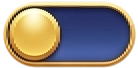
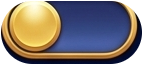
feat(ui): update UI manager and 3D toggle settings assets

diff --git a/Assets/Scripts/UI/UIManager.cs b/Assets/Scripts/UI/UIManager.cs
@@ -254,6 +254,10 @@ namespace BoxBlast
             if (m_LevelHUD != null) m_LevelHUD.SetActive(false);
             if (m_VictoryModal != null) m_VictoryModal.SetActive(false);
             if (m_DefeatModal != null) m_DefeatModal.SetActive(false);
+            if (m_HomeTourModalObj != null) m_HomeTourModalObj.SetActive(false);
+
+            PlayerPrefs.SetInt("BoxBlast_HomeTour_Seen", 1);
+            PlayerPrefs.Save();
 
             // Open Home Page immediately on game start per user request
             OpenModeSelect();
@@ -1121,15 +1125,14 @@ namespace BoxBlast
                 }));
             });
             settingsCloseObj.transform.SetAsLastSibling();
+            // 3. Sound Toggle (X: 154, Y: 178, Size: 142 x 64)
+            CreateConcept2Toggle(sceneObj.transform, new Vector2(154f, 178f), new Vector2(142f, 64f), OnToggleSfxClicked, out m_SfxToggleTrackImg);
 
-            // 3. Sound Toggle (X: 152.5, Y: 183)
-            CreateConcept2Toggle(sceneObj.transform, new Vector2(152.5f, 183f), new Vector2(138f, 68f), OnToggleSfxClicked, out m_SfxToggleTrackImg);
+            // 4. Music Toggle (X: 154, Y: 36, Size: 142 x 64)
+            CreateConcept2Toggle(sceneObj.transform, new Vector2(154f, 36f), new Vector2(142f, 64f), OnToggleMusicClicked, out m_MusicToggleTrackImg);
 
-            // 4. Music Toggle (X: 152.5, Y: 39.5)
-            CreateConcept2Toggle(sceneObj.transform, new Vector2(152.5f, 39.5f), new Vector2(138f, 68f), OnToggleMusicClicked, out m_MusicToggleTrackImg);
-
-            // 5. Vibration Toggle (X: 152.5, Y: -107.5)
-            CreateConcept2Toggle(sceneObj.transform, new Vector2(152.5f, -107.5f), new Vector2(138f, 68f), OnToggleHapticsClicked, out m_HapticToggleTrackImg);
+            // 5. Vibration Toggle (X: 154, Y: -110, Size: 142 x 64)
+            CreateConcept2Toggle(sceneObj.transform, new Vector2(154f, -110f), new Vector2(142f, 64f), OnToggleHapticsClicked, out m_HapticToggleTrackImg);
 
             // 6. Ball Designs Button (X: 0, Y: -262, Size: 384 x 86)
             CreateConcept2Button(sceneObj.transform, new Vector2(0f, -262f), new Vector2(384f, 86f), "Settings_Btn_BallDesigns", () =>
@@ -1542,9 +1545,9 @@ namespace BoxBlast
             }
             UpdateHUDVisibility();
 
-            if (PlayerPrefs.GetInt("BoxBlast_HomeTour_Seen", 0) == 0)
+            if (m_HomeTourModalObj != null)
             {
-                StartCoroutine(DelayedShowHomeTour(0.35f));
+                m_HomeTourModalObj.SetActive(false);
             }
         }
 
@@ -5599,31 +5602,16 @@ namespace BoxBlast
 
         public void ShowHomeFeatureTour(bool force = false)
         {
-            if (!force && PlayerPrefs.GetInt("BoxBlast_HomeTour_Seen", 0) == 1) return;
-
-            if (m_HomeTourModalObj == null)
+            if (m_HomeTourModalObj != null)
             {
-                BuildHomeFeatureTourModal();
+                m_HomeTourModalObj.SetActive(false);
             }
-
-            if (m_HomeTourModalObj == null) return;
-
-            m_CurrentTourStep = 0;
-            m_HomeTourModalObj.SetActive(true);
-            m_HomeTourModalObj.transform.SetAsLastSibling();
-            UpdateTourStepUI();
-
-            if (SoundManager.Instance != null) SoundManager.Instance.PlayTutorialPrompt();
-            HapticManager.TriggerLight();
+            return;
         }
 
         private System.Collections.IEnumerator DelayedShowHomeTour(float delay)
         {
-            yield return new WaitForSecondsRealtime(delay);
-            if (m_ModeSelectPanel != null && m_ModeSelectPanel.activeSelf)
-            {
-                ShowHomeFeatureTour(false);
-            }
+            yield break;
         }
 
         private void BuildHomeFeatureTourModal()
